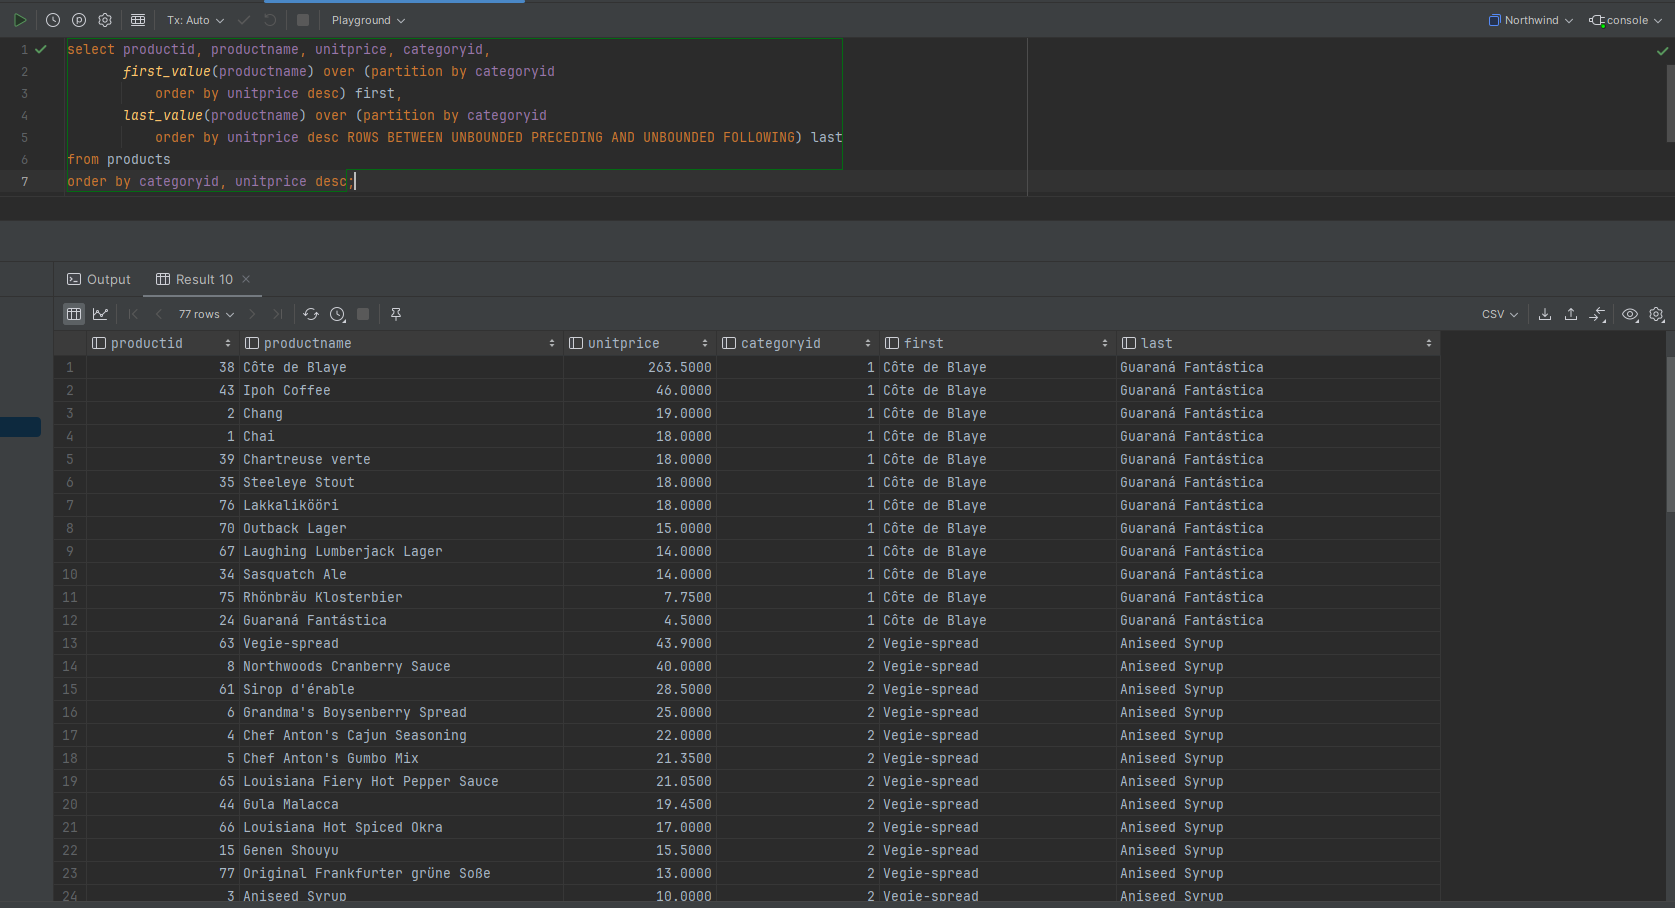
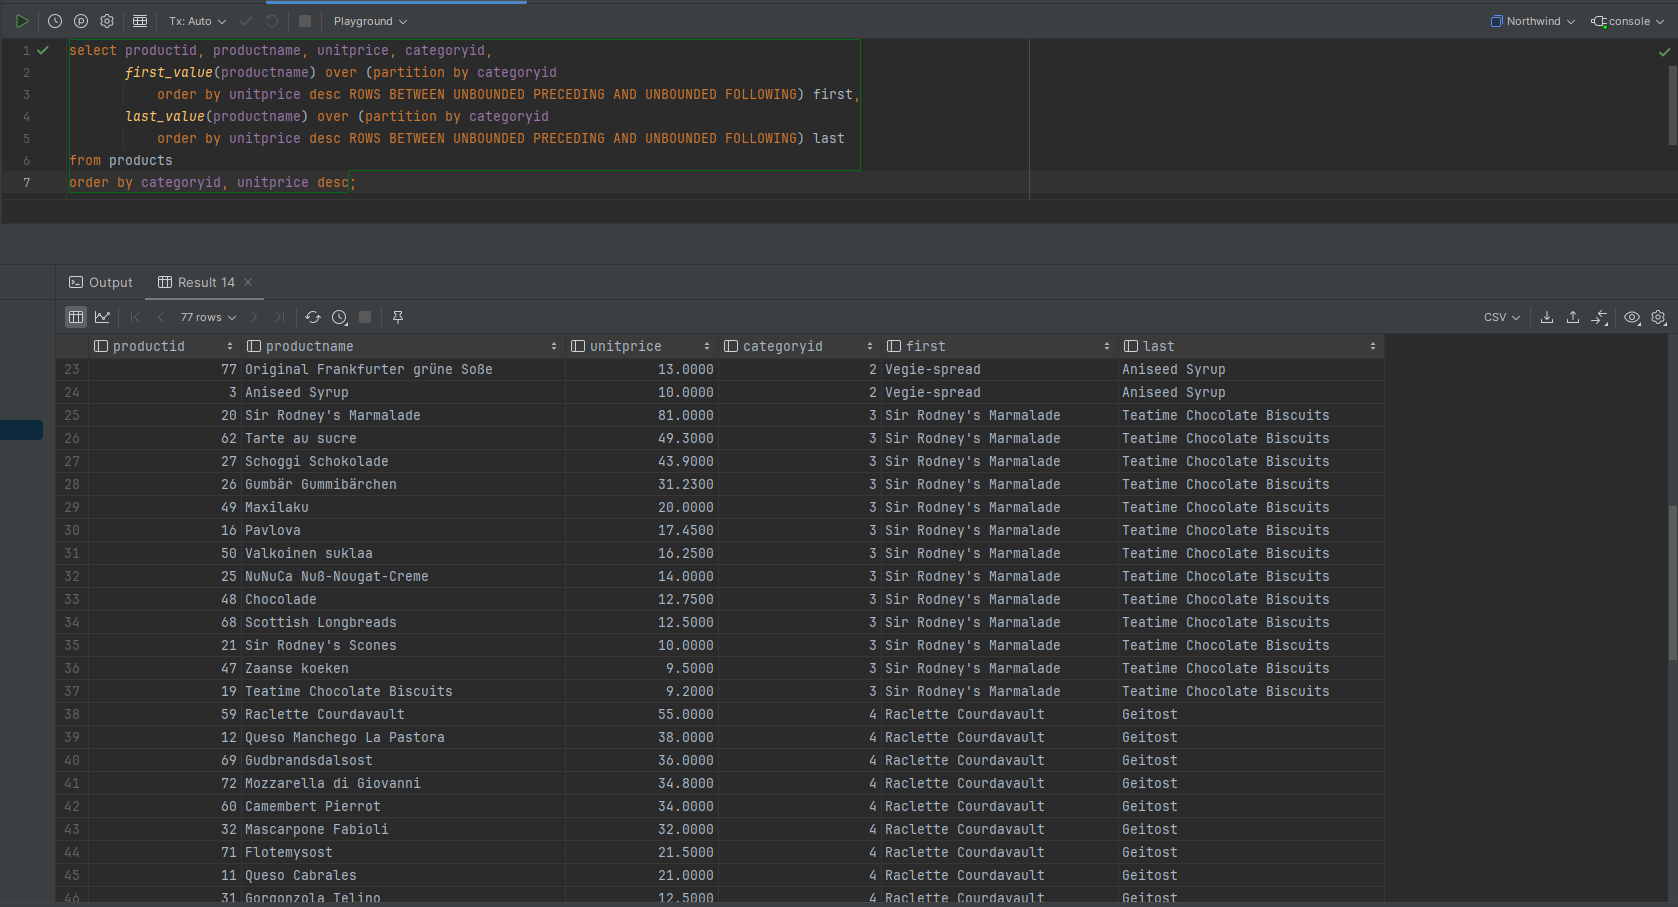
Finish first part of ex12

diff --git a/lab1-2/lab-1-2-window-function.md b/lab1-2/lab-1-2-window-function.md
@@ -1208,7 +1208,7 @@ select productid, productname, unitprice, categoryid,
     first_value(productname) over (partition by categoryid   
 order by unitprice desc) first,  
     last_value(productname) over (partition by categoryid   
-order by unitprice desc) last  
+order by unitprice desc) last
 from products  
 order by categoryid, unitprice desc;
 ```
@@ -1217,16 +1217,16 @@ order by categoryid, unitprice desc;
 
 ![alt text](./_img/zad12_1.png)
 
-Jako wynik otrzymujemy ...
+Domyślne okno dla funkcji `first_value` oraz `last_value` to `RANGE BETWEEN UNBOUNDED PRECEDING AND CURRENT ROW`, które bierze odpowiednio pierwszą albo ostatnią wartość dotychczas.
 
-Aby funkcja `last_value` pokazywała najtańszy produkt w danej kategorii należy użyć `ROWS BETWEEN UNBOUNDED PRECEDING AND UNBOUNDED FOLLOWING`. Trzeba zmodyfikować nasze zapytanie w sposób następujący:
+Aby funkcja `last_value` pokazywała najtańszy produkt w danej kategorii należy zamienić domyślny zakres funkcji z `RANGE BETWEEN UNBOUNDED PRECEDING AND CURRENT ROW` na `ROWS BETWEEN UNBOUNDED PRECEDING AND UNBOUNDED FOLLOWING`. Trzeba zmodyfikować nasze zapytanie w sposób następujący:
 ```sql
-select productid, productname, unitprice, categoryid,  
-    first_value(productname) over (partition by categoryid   
-order by unitprice desc) first,  
-    last_value(productname) over (partition by categoryid   
-order by unitprice desc ROWS BETWEEN UNBOUNDED PRECEDING AND UNBOUNDED FOLLOWING) last  
-from products  
+select productid, productname, unitprice, categoryid,
+       first_value(productname) over (partition by categoryid
+           order by unitprice desc ROWS BETWEEN UNBOUNDED PRECEDING AND UNBOUNDED FOLLOWING) first,
+       last_value(productname) over (partition by categoryid
+           order by unitprice desc ROWS BETWEEN UNBOUNDED PRECEDING AND UNBOUNDED FOLLOWING) last
+from products
 order by categoryid, unitprice desc;
 ```
 ![alt text](./_img/zad12_2.png)
@@ -1302,7 +1302,7 @@ Zbiór wynikowy powinien zawierać:
 with Data as 
 (select
 	id, productid, date,
-	sum(unitprice*quantity) over(partition by productid,convert(date,date)) dayValue
+	sum(unitprice*quantity) over(partition by productid, convert(date,date)) dayValue
 from product_history)
 select 
 	d.*,
